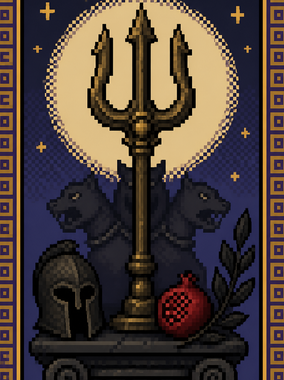
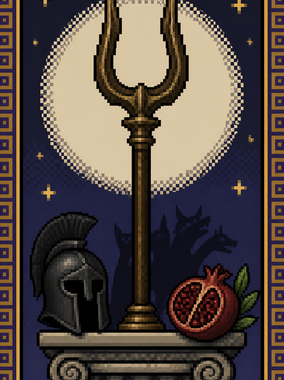
Improve Hecate, Demeter, Iris, and Hades worship card art.
Regenerate to match Athena’s Ionic-capital layout more closely:
cleaner silhouettes, stronger emblems, rainbow-forward Iris.

diff --git a/docs/ART_PROMPT_WORSHIP.md b/docs/ART_PROMPT_WORSHIP.md
@@ -28,12 +28,14 @@ Fill `{SCENE}` only. Blessing moulding is fixed (purple / gold).
 
 ## Scenes
 
+Match Athena’s layout: **central emblem on Ionic capital**, left relic, right relic, dithered glow disc, navy starfield.
+
 | File | God | Scene cue |
 |---|---|---|
-| `worship hecate.png` | Hecate | Three lit torches bound at a stone three-way crossroads, triple-ring key, black hound with gold collar, pale moon glow disc, indigo night |
-| `worship demeter.png` | Demeter | Golden wheat sheaf with crimson ribbon on Ionic pedestal, sickle left, pomegranate + poppy right, warm harvest-gold glow disc |
-| `worship iris.png` | Iris | Rainbow arc behind a winged golden herald staff (no Hermes snakes), winged messenger sandals at base, pale sky-blue/violet glow disc |
-| `worship hades.png` | Hades | Dark-gold bident on black stone dais, helm of darkness, red pomegranate, Cerberus silhouette, cold bone-white glow disc |
+| `worship hecate.png` | Hecate | Three bound flaming torches (centre), triple-loop iron key (left), black hound with gold collar (right), cool moon glow |
+| `worship demeter.png` | Demeter | Crimson-tied wheat sheaf (centre), sickle (left), pomegranate + poppy (right), warm gold glow |
+| `worship iris.png` | Iris | Dominant rainbow gateway arch (centre), winged herald rod without snakes (left), prism/light drop (right), violet-blue glow |
+| `worship hades.png` | Hades | Two-pronged bronze bident (centre), helm of darkness (left), split pomegranate (right), faint Cerberus silhouette, cold bone glow |
 
 ## Landing
 
